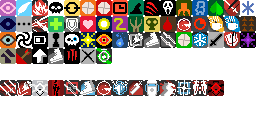
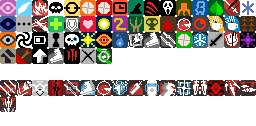
아이콘

Changed region(s): [[0.875, 0.619, 1.0, 0.7619], [0.0, 0.7619, 0.0625, 0.9048]]

diff --git a/Arrrknights/core/src/main/java/com/shatteredpixel/shatteredpixeldungeon/actors/hero/Talent.java b/Arrrknights/core/src/main/java/com/shatteredpixel/shatteredpixeldungeon/actors/hero/Talent.java
@@ -149,7 +149,7 @@ public enum Talent {
 	//Warden T3
 	DURABLE_TIPS(110, 3), BARKSKIN(111, 3), SAVIOR_PRAY(112, 3),
 	//Stome T3
-	SONG_OF_STOME(110,3), ENERGY_STORAGE(111,3), WIND_BLESSING(112, 3),
+	SONG_OF_STOME(210,3), ENERGY_STORAGE(211,3), WIND_BLESSING(212, 3),
 	//Huntress T4
 	POINT_BLANK(106, 3), IMPROVED_CROSSBOW(113,3), PUSH_ATTACK(98,4),
 	//Sniper T4
@@ -157,7 +157,7 @@ public enum Talent {
 	//Warden T4
 	SAVIOR_BELIEF(116,4),
 	// Stome T4
-	GALEFORCE(116,4),
+	GALEFORCE(213,4),
 
 	//RoseCat T1
 	LIGHTNESSMEAL(128), SMARTMEALS(129), GOODMEAT(130), NYANGING(131),
@@ -191,7 +191,7 @@ public enum Talent {
 	//Nearl T3 - SAVIER
 	SHIELD_OF_LIGHT(174, 3), PEGASUS_WING(175,3), HOPELIGHT(176,3),
 	// Flash T3
-	FLASH_SPEAR(174,3), KNIGHT_GLORY(175,3), LIGHT_OF_GLORY(176,3),
+	FLASH_SPEAR(206,3), KNIGHT_GLORY(207,3), LIGHT_OF_GLORY(208,3),
 	//Nearl T4
 	GRAND_ORDER(177, 3), KNIGHT_OF_KAZIMIERZ(178,3), KNIGHT_BODY(179,4),
 	//Nearl T4 - KNIGHT
@@ -199,7 +199,7 @@ public enum Talent {
 	//Nearl T4 - SAVIER
 	BLESSED_CHAMPION(181,4),
 	//Flast T4
-	ETERNAL_GLORY(181,4);
+	ETERNAL_GLORY(209,4);
 
 	public static class ImprovisedProjectileCooldown extends FlavourBuff{};
 	public static class LethalMomentumTracker extends FlavourBuff{};

diff --git a/Arrrknights/core/src/main/java/com/shatteredpixel/shatteredpixeldungeon/actors/hero/HeroSubClass.java b/Arrrknights/core/src/main/java/com/shatteredpixel/shatteredpixeldungeon/actors/hero/HeroSubClass.java
@@ -99,6 +99,8 @@ public enum HeroSubClass {
 				return new Image(Assets.Interfaces.BUFFS_LARGE, 0, 80, 16, 16);
 			case BERSERKER:
 				return new Image(Assets.Interfaces.BUFFS_LARGE, 16, 80, 16, 16);
+			case HEAT:
+				return new Image(Assets.Interfaces.BUFFS_LARGE, 224, 80, 16, 16);
 
 			case WARLOCK:
 				return new Image(Assets.Interfaces.BUFFS_LARGE, 32, 80, 16, 16);
@@ -116,6 +118,8 @@ public enum HeroSubClass {
 				return new Image(Assets.Interfaces.BUFFS_LARGE, 96, 80, 16, 16);
 			case WARDEN:
 				return new Image(Assets.Interfaces.BUFFS_LARGE, 112, 80, 16, 16);
+			case STOME:
+				return new Image(Assets.Interfaces.BUFFS_LARGE, 240, 80, 16, 16);
 
 			case DESTROYER:
 				return new Image(Assets.Interfaces.BUFFS_LARGE, 128, 80, 16, 16);
@@ -126,6 +130,9 @@ public enum HeroSubClass {
 				return new Image(Assets.Interfaces.BUFFS_LARGE, 160, 80, 16, 16);
 			case SAVIOR:
 				return new Image(Assets.Interfaces.BUFFS_LARGE, 176, 80, 16, 16);
+			case FLASH:
+				return new Image(Assets.Interfaces.BUFFS_LARGE, 256, 80, 16, 16);
+
 
 			case WAR:
 				return new Image(Assets.Interfaces.BUFFS_LARGE, 192, 80, 16, 16);

diff --git a/Arrrknights/core/src/main/java/com/shatteredpixel/shatteredpixeldungeon/actors/hero/HeroClass.java b/Arrrknights/core/src/main/java/com/shatteredpixel/shatteredpixeldungeon/actors/hero/HeroClass.java
@@ -82,6 +82,7 @@ import com.shatteredpixel.shatteredpixeldungeon.items.weapon.SpiritBow;
 import com.shatteredpixel.shatteredpixeldungeon.items.weapon.melee.AssassinsBlade;
 import com.shatteredpixel.shatteredpixeldungeon.items.weapon.melee.BattleAxe;
 import com.shatteredpixel.shatteredpixeldungeon.items.weapon.melee.Dagger;
+import com.shatteredpixel.shatteredpixeldungeon.items.weapon.melee.Echeveria;
 import com.shatteredpixel.shatteredpixeldungeon.items.weapon.melee.FlametailSword;
 import com.shatteredpixel.shatteredpixeldungeon.items.weapon.melee.Gloves;
 import com.shatteredpixel.shatteredpixeldungeon.items.weapon.melee.Halberd;
@@ -169,6 +170,7 @@ import org.omg.PortableServer.SERVANT_RETENTION_POLICY_ID;
 		new ScrollOfIdentify().identify();
 
 		new FoodBag().collect();
+		new Echeveria().collect();
 		Dungeon.LimitedDrops.FOOD_BAG.drop();
 	}
 

diff --git a/Arrrknights/core/src/main/java/com/shatteredpixel/shatteredpixeldungeon/sprites/Glow_dronSprite.java b/Arrrknights/core/src/main/java/com/shatteredpixel/shatteredpixeldungeon/sprites/Glow_dronSprite.java
@@ -17,7 +17,7 @@ public class Glow_dronSprite extends MobSprite {
         run = new Animation( 10, true );
         run.frames( frames, 0, 1, 2, 3, 4, 5 );
 
-        attack = new Animation( 16, false );
+        attack = new Animation( 18, false );
         attack.frames( frames, 6, 7, 8, 9, 10, 11, 12, 13, 14, 8 );
 
         die = new Animation( 10, false );
